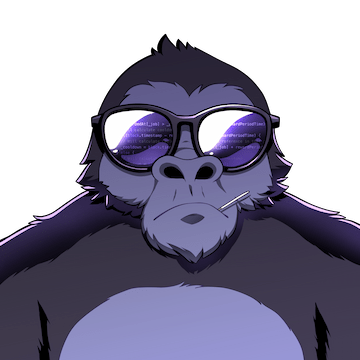
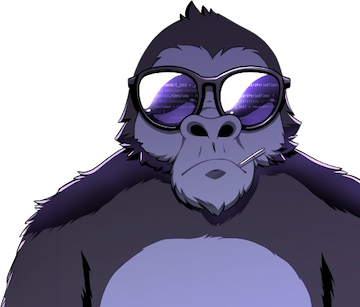
style: impprove squad images styles

diff --git a/src/pages/squad/SquadSection.tsx b/src/pages/squad/SquadSection.tsx
@@ -44,7 +44,11 @@ export default function SquadSection() {
                     <Position>{member.position}</Position>
                   </NameContainer>
 
-                  {member.image && <SImg src={member.image} alt='twitter icon' />}
+                  {member.image && (
+                    <ImageContainer>
+                      <SImg src={member.image} alt='twitter icon' />
+                    </ImageContainer>
+                  )}
                 </CardFront>
 
                 <CardBack key={member.name} className={`member member-${index} flip-card-back`}>
@@ -121,7 +125,7 @@ const SquadGrid = styled.div`
   max-width: 140rem;
   margin: 100px auto;
   padding: 0 4rem;
-  grid-template-columns: auto auto auto;
+  grid-template-columns: 33% 33% 33%;
 
   & .member {
     border-right: 1px solid rgba(255, 255, 255, 0.4);
@@ -169,7 +173,7 @@ const SquadGrid = styled.div`
   }}
 
   @media screen and (max-width: ${TABLET_MAX_WIDTH}) {
-    grid-template-columns: auto auto;
+    grid-template-columns: 50% 50%;
 
     & .member {
       border-right: unset;
@@ -363,58 +367,40 @@ const KeyImage = styled.img.attrs({ src: KEY.src })`
   right: 2rem;
 `;
 
-const Social = styled.div`
+const ImageContainer = styled.div`
   display: flex;
-  align-items: center;
-  justify-content: start;
-`;
-
-const SImg = styled(Image).attrs({
-  height: '160',
-  width: '160',
-})`
+  align-items: end;
+  justify-content: flex-end;
   height: 16rem;
-  width: 16rem;
+  width: 50%;
   position: absolute;
   bottom: 0;
   right: 0;
 
-  -webkit-backface-visibility: hidden; /* Safari */
-  backface-visibility: hidden;
+  img {
+    width: auto !important;
+    position: relative !important;
+  }
 
   @media screen and (max-width: ${TABLET_MAX_WIDTH}) {
-    height: 12rem;
-    width: 12rem;
+    height: calc(100% - 8rem);
+    width: auto;
   }
   @media screen and (max-width: ${MOBILE_MAX_WIDTH}) {
-    height: 10rem;
-    width: 10rem;
+    height: calc(100% - 4.8rem);
+    width: auto;
   }
 `;
 
-// const EyeImage = styled(KeyImage).attrs({
-//   src: EYE.src,
-//   alt: "See description icon",
-// })<{ flipped: boolean }>`
-//   opacity: 0;
-//   bottom: 0;
-//   right: 0;
+const SImg = styled(Image).attrs({
+  fill: true,
+})`
+  object-fit: contain;
+  position: relative;
 
-//   position: absolute;
-//   bottom: 1rem;
-//   right: 1rem;
-//   z-index: 1;
-//   display: ${({ flipped }) => (flipped ? "none" : "unset")};
-
-//   @media screen and (max-width: ${MOBILE_MAX_WIDTH}) {
-//     opacity: 1;
-//   }
-// `;
-
-// const MemberLink = styled(SLink)`
-//   z-index: 1;
-//   transition: all 200ms linear;
-// `;
+  -webkit-backface-visibility: hidden; /* Safari */
+  backface-visibility: hidden;
+`;
 
 const MemberContainer = styled.div`
   position: relative;
